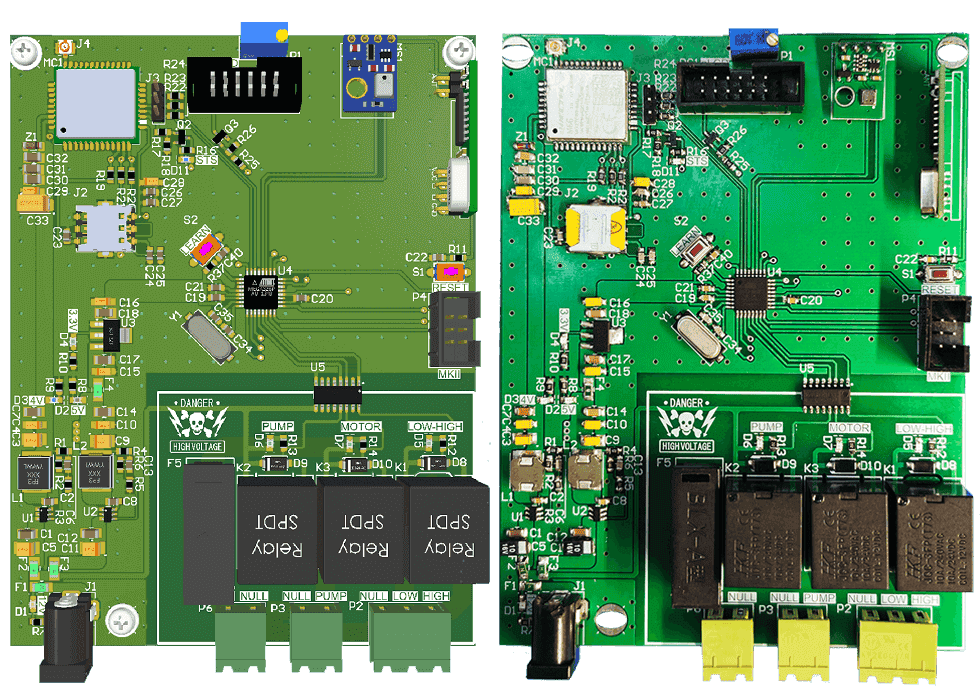
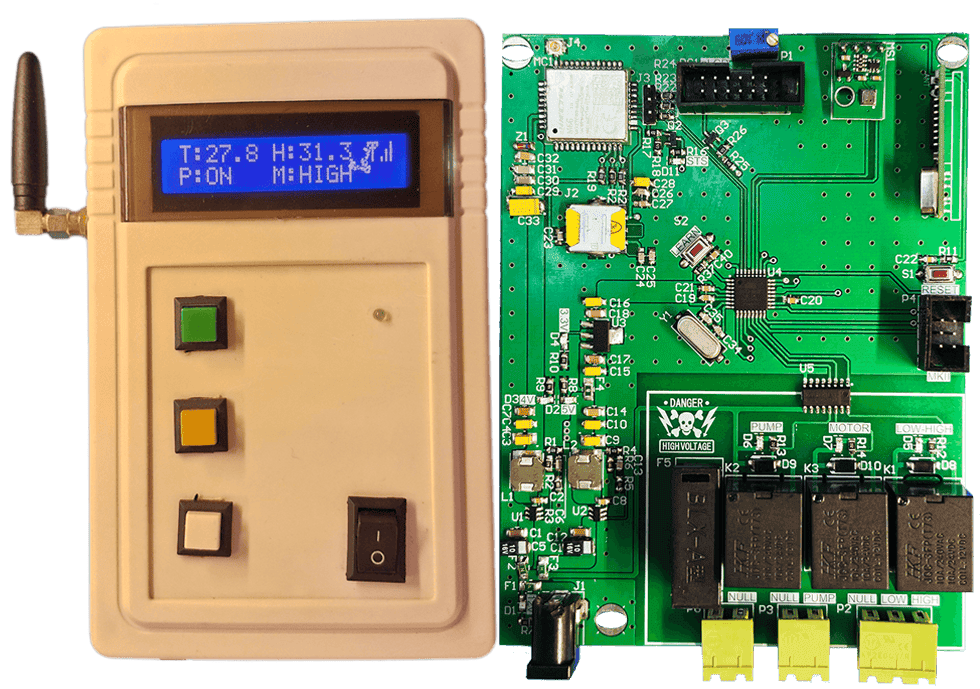
Blinky ASU whenAutoStartRoutine Started, Improve backlight states

diff --git a/Firmware/src/task.c b/Firmware/src/task.c
@@ -37,7 +37,7 @@ millis_T millisSystem  = {.Delta = 0, .Previous = 0, .Interval = 100};
 millis_T millisGSM     = {.Delta = 0, .Previous = 0, .Interval = 100};
 millis_T millisRemote  = {.Delta = 0, .Previous = 0, .Interval = REMOTE_Idle_MS}; 
 millis_T millisSensor  = {.Delta = 0, .Previous = 0, .Interval = 500}; 
-millis_T millisAStart  = {.Delta = 0, .Previous = 0, .Interval = 150000}; 
+millis_T millisAStart  = {.Delta = 0, .Previous = 0, .Interval = 180000}; 
 millis_T millisALCdBL  = {.Delta = 0, .Previous = 0, .Interval = 120000}; 
 
 Sys_State_T Sys_State = Sys_StartUp;
@@ -227,11 +227,21 @@ void Remote_Task(void)
         case Remote_Check:
             Remote_State = Remote_Check;
             if(ev1527_Data.Bits.Address == Remote_Authorized.fields.Address)
-            {
+            {              
                 switch (ev1527_Data.Bits.Keys)
-                {
+                {                 
                     case (Remote_Key_A | Remote_Key_B):
-                        AutoStartUp = !AutoStartUp;
+                        if(AutoStartUp == true)
+                        {
+                            AutoStartUp = false;
+                            Display_BakckLight    = Display_BL_ON;
+                            millisALCdBL.Previous = System_millis;
+                            millisALCdBL.Interval = 5000;                                  
+                        }
+                        else
+                        {
+                            AutoStartUp = true;
+                        };
                         millisAStart.Previous = System_millis;   
                     break;
 
@@ -642,6 +652,9 @@ void GSM_Task(void)
         case GSM_SMS_SendSMS:
             if(Config_Device.fields.Phone_CFG == true)
             {
+                Display_BakckLight    = Display_BL_ON;
+                millisALCdBL.Previous = System_millis;
+                millisALCdBL.Interval = 10000;                    
                 if(SMS_CMD_Type == SMS_CMD_PowerOn)
                 {
                     M66_SendSMS(SMS_Authorized_Number.fields.Number, "RCS AVR powered on!");

diff --git a/Firmware/src/main.c b/Firmware/src/main.c
@@ -8,7 +8,7 @@ int main(void)
 {
   wdt_Init(WDT_TIMEOUT_8S);
   get_Reset_Srouce(&Reset_Source);
-  if(Reset_Source == RESET_SOURCE_POWER_ON)
+  if(Reset_Source == RESET_SOURCE_POWER_ON || Reset_Source == RESET_SOURCE_EXTERNAL)
   {
     System_PowerOn = true;
     Display_BakckLight = Display_BL_ON;

diff --git a/Firmware/src/display.c b/Firmware/src/display.c
@@ -309,7 +309,14 @@ void display_HomePage(void)
   {
     if(AutoStartUp == true)
     {
-      alcd_puts("ASU");
+      if(Counter<2)
+      {
+        alcd_puts("ASU");
+      }
+      else
+      {
+        alcd_puts("   ");
+      };      
     } 
     else
     {

diff --git a/Firmware/include/aKaReZa.h b/Firmware/include/aKaReZa.h
@@ -53,8 +53,8 @@
 #include "mem.h"
 #include "wdt.h"
 
-#define firmwareVer   "1.5.0"
-#define gitHash       "0b98b63"
+#define firmwareVer   "1.5.1"
+#define gitHash       "8fe61ce"
 #define Learn_Key_DDR DDRD
 #define Learn_Key_Pin 3
 #define Learn_Key_STS PIND
